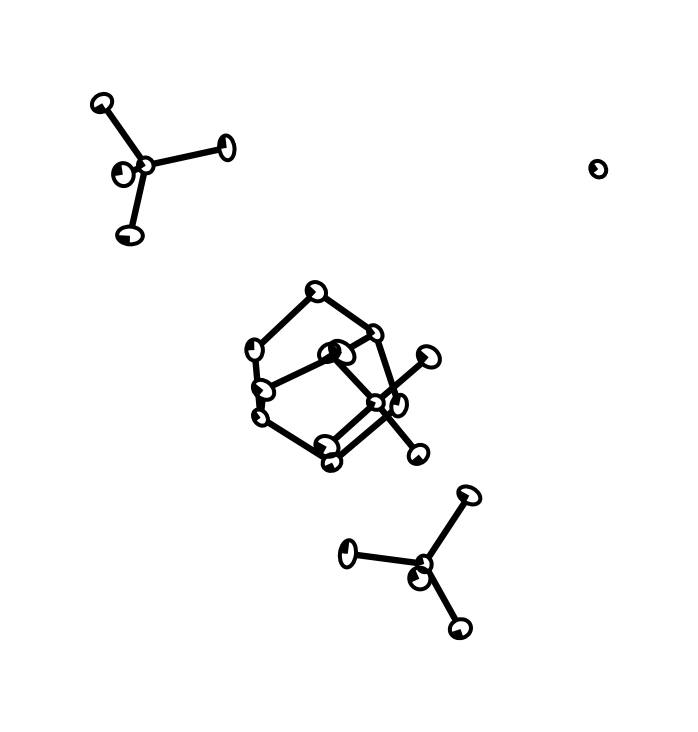
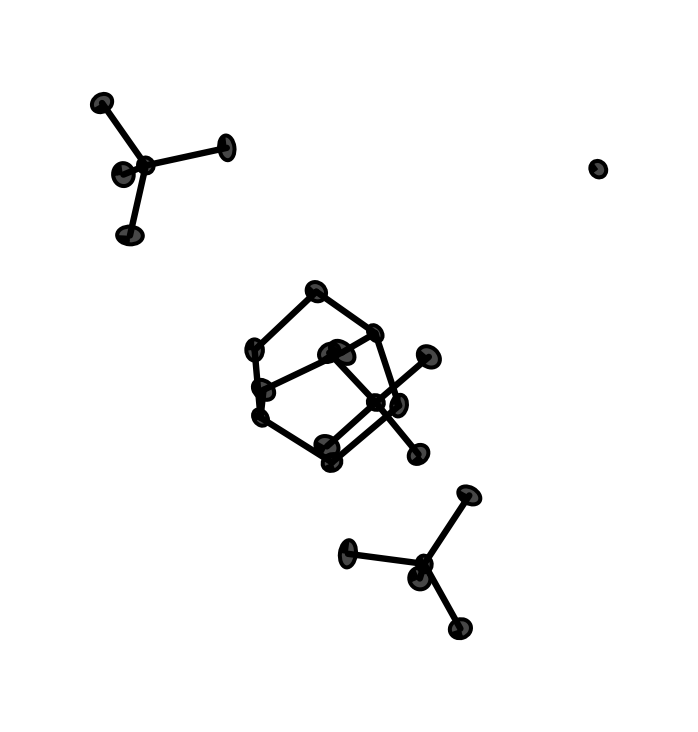
feat: preserve element colors in flat ORTEP figures

diff --git a/crystal_viewer/ortep/flat_render.py b/crystal_viewer/ortep/flat_render.py
@@ -25,6 +25,7 @@ from matplotlib.collections import LineCollection
 
 from .core import (
     _as_u_matrix,
+    _atom_color,
     _atom_u,
     _probability_scale,
     ellipsoid_principal_axes,
@@ -215,17 +216,18 @@ def render_ortep_flat(scene: dict, style: dict | None = None) -> plt.Figure:
         start_2d = _project_2d(bond["start"], view_x, view_y)
         end_2d = _project_2d(bond["end"], view_x, view_y)
 
+        bond_color = _atom_color(ai, style)
         line = Line2D(
             [start_2d[0], end_2d[0]],
             [start_2d[1], end_2d[1]],
             linewidth=bond_lw,
-            color="black",
+            color=bond_color,
             solid_capstyle="round",
             zorder=1,
         )
         ax.add_line(line)
 
-    # ── Layer 2: Atom fills (white disks to clip bonds) ─────────────────
+    # ── Layer 2: Atom fills (translucent element colors to clip bonds) ──
     for atom in draw_atoms:
         idx = id(atom)
         cx, cy, w, h, angle = atom_ellipses[idx]
@@ -238,15 +240,16 @@ def render_ortep_flat(scene: dict, style: dict | None = None) -> plt.Figure:
             continue
 
         elem = str(atom.get("elem", "C"))
+        atom_color = _atom_color(atom, style)
         if elem in ("H", "D") and h_radius_override:
             patch = Circle(
                 (cx, cy), radius=float(h_radius_override),
-                facecolor="white", edgecolor="none", zorder=2,
+                facecolor=atom_color, edgecolor="none", alpha=0.72, zorder=2,
             )
         else:
             patch = Ellipse(
                 (cx, cy), w, h, angle=angle,
-                facecolor="white", edgecolor="none", zorder=2,
+                facecolor=atom_color, edgecolor="none", alpha=0.72, zorder=2,
             )
         ax.add_patch(patch)
 
@@ -267,7 +270,7 @@ def render_ortep_flat(scene: dict, style: dict | None = None) -> plt.Figure:
             lc = LineCollection(
                 hatch_segs,
                 linewidths=0.7,
-                colors="black",
+                colors=_atom_color(atom, style),
                 zorder=3,
             )
             ax.add_collection(lc)
@@ -284,16 +287,17 @@ def render_ortep_flat(scene: dict, style: dict | None = None) -> plt.Figure:
         linestyle = "--" if is_disordered else "-"
         linewidth = 1.2
 
+        atom_color = _atom_color(atom, style)
         if elem in ("H", "D") and h_radius_override:
             patch = Circle(
                 (cx, cy), radius=float(h_radius_override),
-                facecolor="none", edgecolor="black",
+            facecolor="none", edgecolor=atom_color,
                 linewidth=linewidth, linestyle=linestyle, zorder=4,
             )
         else:
             patch = Ellipse(
                 (cx, cy), w, h, angle=angle,
-                facecolor="none", edgecolor="black",
+                facecolor="none", edgecolor=atom_color,
                 linewidth=linewidth, linestyle=linestyle, zorder=4,
             )
         ax.add_patch(patch)
@@ -315,7 +319,7 @@ def render_ortep_flat(scene: dict, style: dict | None = None) -> plt.Figure:
             ax.text(
                 cx + offset_x, cy + offset_y, label,
                 fontsize=7, ha="left", va="bottom",
-                color="black", zorder=5,
+                color=_atom_color(atom, style), zorder=5,
             )
 
     # Auto-range with generous margin based on largest ellipse

diff --git a/paper/showcase/build_images.py b/paper/showcase/build_images.py
@@ -11,8 +11,8 @@ Markdown renders without requiring a build step.
 
 All figures use the Matplotlib flat ORTEP renderer via ``render()``, which
 is the only reliable export path on headless/CI/Windows environments.
-The showcase intentionally uses the renderer's monochrome ORTEP palette;
-MatterVis's normal Plotly viewer defaults remain element-coloured.
+The showcase keeps MatterVis's default element-colour palette; flat ORTEP
+is a publication backend, not a monochrome-only style.
 """
 from __future__ import annotations
 
@@ -53,7 +53,6 @@ def _ortep_style(scene, **overrides) -> dict:
         "show_labels": False,
         "show_axes": False,
         "show_unit_cell": False,
-        "monochrome": True,
         "ortep_probability": 0.5,
         "ortep_mode": "ortep_axes",
         "bond_radius": 0.12,

diff --git a/README.md b/README.md
@@ -12,7 +12,7 @@ MatterVis is a Python toolkit for interactive and publication-quality visualizat
 ## Key Features
 
 - **Headless CLI** — Three subcommands (`render`, `serve`, `tui`) cover the full workflow: CIF → publication-quality figure, interactive 3D viewer, or terminal-based inspection. Ideal for batch processing, CI pipelines, and remote servers
-- **Browser Viewer** — Drag-and-drop CIF upload, interactive 3D display with `Mesh3d` atoms and bonds, and a fast `Scatter3d` fallback for large cells. The viewer uses the built-in element palette by default; the black-and-white figures below are deliberate ORTEP showcase presets, not a global monochrome default
+- **Browser Viewer** — Drag-and-drop CIF upload, interactive 3D display with `Mesh3d` atoms and bonds, and a fast `Scatter3d` fallback for large cells. The viewer uses the built-in element palette by default
 - **Coordination Topology** — Automatic coordination-number detection via the nearest-neighbour gap, continuous shape measure (CShM) classification against 12 ideal polyhedra (CN 4–12), planarity RMS, and prism/antiprism twist analysis
 - **Publication Export** — Vendored ORTEP-style Matplotlib renderer with correct depth ordering, two-colour bonds, smart label placement, and configurable presets
 - **Multi-Panel Figures** — `uniform_viewport(scenes)` stamps a shared world-cube on any list of scenes so every `build_figure` call emits at the same physical length per pixel
@@ -21,7 +21,7 @@ MatterVis is a Python toolkit for interactive and publication-quality visualizat
 
 <p align="center">
   <img src="docs/images/feature_unit_cell.png" width="500"><br>
-  <em>Unit Cell — DAP-4 unit cell (explicit black-and-white ORTEP showcase preset)</em>
+  <em>Unit Cell — DAP-4 unit cell (flat ORTEP with element colours)</em>
 </p>
 
 <p align="center">
@@ -36,7 +36,7 @@ MatterVis is a Python toolkit for interactive and publication-quality visualizat
 
 <p align="center">
   <img src="docs/images/feature_publication.png" width="500"><br>
-  <em>Publication-Quality Export — ORTEP-style Matplotlib renderer with labels</em>
+  <em>Publication-Quality Export — Colour ORTEP-style Matplotlib renderer with labels</em>
 </p>
 
 <p align="center">

diff --git a/skills/visualize-materials/references/matplotlib-flat-ortep.md b/skills/visualize-materials/references/matplotlib-flat-ortep.md
@@ -18,6 +18,8 @@ wireframe styles.
 - Uses Matplotlib's non-interactive `Agg` backend.
 - Exports PNG, PDF, and SVG without Chrome.
 - Uses camera-projected thermal ellipsoids and orthographic projection.
+- Uses the active MatterVis element palette by default; set `monochrome=true`
+  or pass `--monochrome` when a black-and-white figure is required.
 - Is not equivalent to Plotly mesh, ball-and-stick, or interactive HTML.
 
 Choose it directly for publication ORTEP or browser-independent static output.
